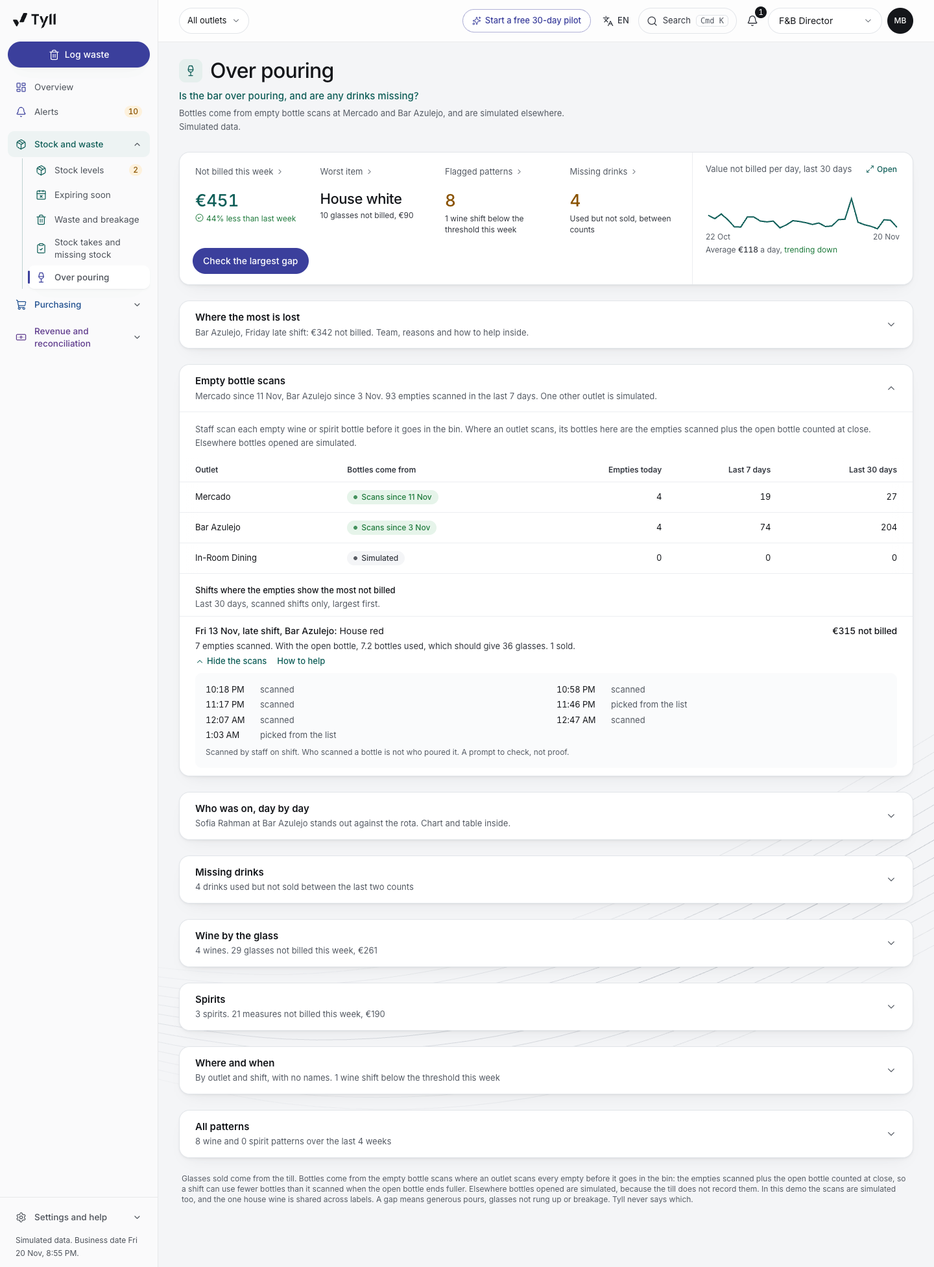
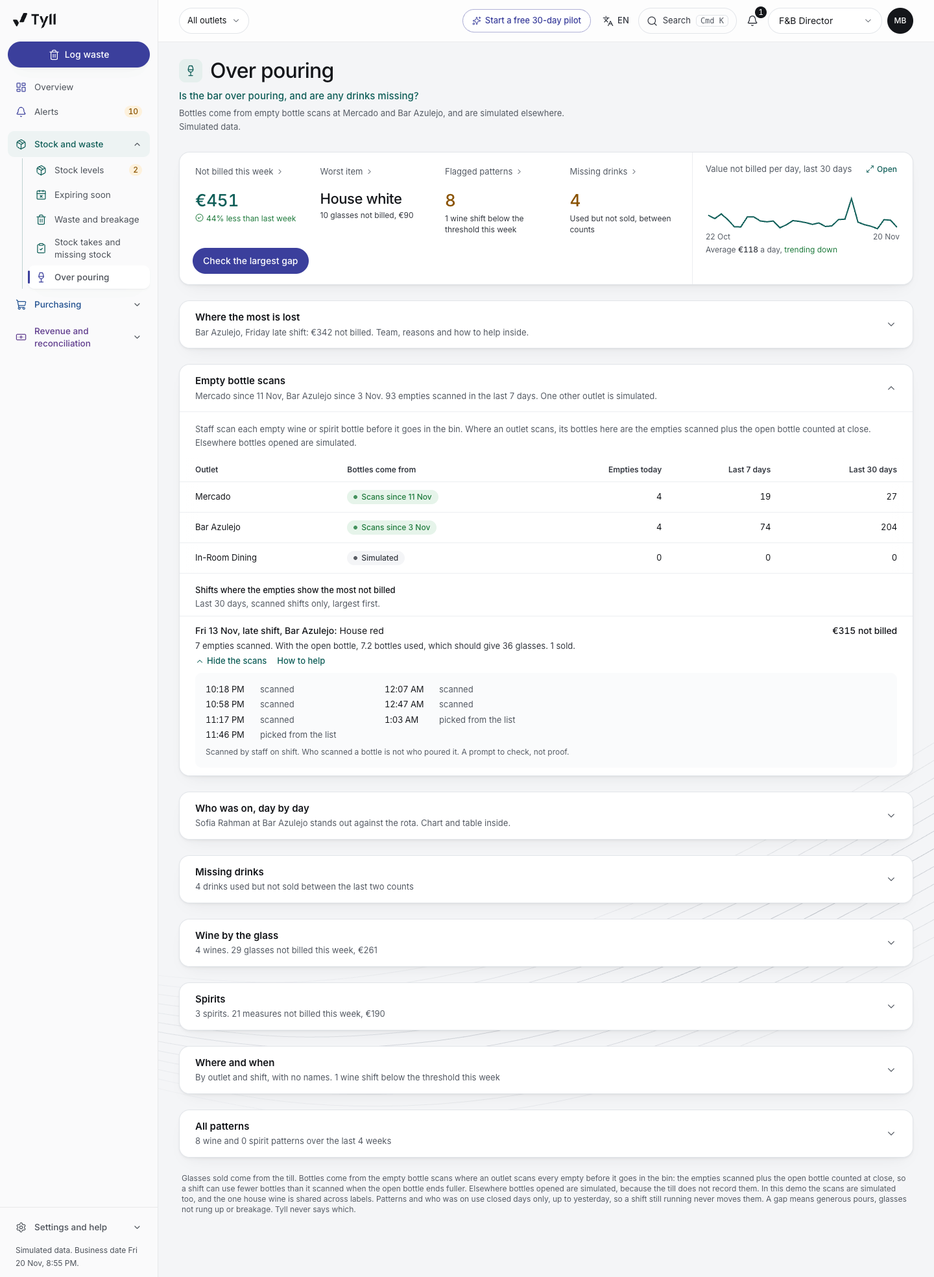
Feature 4: review fixes, patterns and who was on use closed days, open bottle from the scanning start, scan list in time order
- A scan today no longer moves the Over pouring patterns or who stands out: they use the 28 closed days up to yesterday
- The open bottle runs from the day an outlet started scanning, so empties plus the open bottle always add up
- Scan list fills top to bottom; the outlet select gets its own row on phones; stale comment rewritten
- Tests for each, footer sentence translated, CLAUDE.md and OVERNIGHT_LOG.md updated

diff --git a/src/lib/__tests__/empties.test.ts b/src/lib/__tests__/empties.test.ts
@@ -83,6 +83,21 @@ describe("bottles from scans", () => {
     }
   });
 
+  it("adds up even when an outlet's first scan falls after the day it started scanning", () => {
+    const log = pourLog(getDataset().orders);
+    const start = addDays(DEMO_TODAY, E.SCANNING.find((x) => x.outletId === "lis-lobby")!.fromDay);
+    // No empty at Bar Azulejo on its first two days: it counts from the third, with the open bottle as it stood then.
+    const scans = S.seededScans().filter((s) => !(s.outletId === "lis-lobby" && s.date <= addDays(start, 1)));
+    expect(E.scanningFrom(scans).get("lis-lobby")).toBe(addDays(start, 2));
+    const covered = E.withScans(log, scans).filter((e) => e.scanned !== undefined && e.outletId === "lis-lobby");
+    expect(covered.length).toBeGreaterThan(50);
+    const byKey = new Map(log.map((e) => [`${e.date}|${e.outletId}|${e.shift}|${e.skuId}`, e]));
+    for (const e of covered) {
+      const bottleMl = POUR_SKUS.find((s) => s.id === e.skuId)!.bottleMl;
+      expect(e.scanned! + e.part!).toBeCloseTo(byKey.get(`${e.date}|${e.outletId}|${e.shift}|${e.skuId}`)!.ml / bottleMl, 9);
+    }
+  });
+
   it("keeps the simulated history's figures: the same flags and the same money as before scans existed", () => {
     const log = pourLog(getDataset().orders);
     const before = figures(log);
@@ -153,6 +168,19 @@ describe("the simulated scan history and the story", () => {
       expect(top.skuId).toBe("red");
       expect(top.shift).toBe("late");
       expect(top.figures.gapValue).toBeGreaterThan(250);
+      // Each outlet's seeded scans start on the day it started scanning, and empties plus the open bottle add up to what was poured.
+      const D = await import("../data/generate");
+      const PL = await import("../domain/pour");
+      const EE = await import("../domain/empties");
+      const SS = await import("../server/empties");
+      const U2 = await import("../util");
+      const seeded = SS.seededScans();
+      for (const x of EE.SCANNING) expect(seeded.filter((s) => s.outletId === x.outletId).map((s) => s.date).sort()[0], `${x.outletId} ${process.env.TYLL_DEMO_DATE}`).toBe(U2.addDays(U2.DEMO_TODAY, x.fromDay));
+      const log = PL.pourLog(D.getDataset().orders);
+      const ml = new Map(log.map((e) => [`${e.date}|${e.outletId}|${e.shift}|${e.skuId}`, e.ml]));
+      for (const e of EE.withScans(log, seeded).filter((x) => x.scanned !== undefined)) {
+        expect(e.scanned! + e.part!).toBeCloseTo(ml.get(`${e.date}|${e.outletId}|${e.shift}|${e.skuId}`)! / PL.POUR_SKUS.find((s) => s.id === e.skuId)!.bottleMl, 9);
+      }
       // Only shifts below the threshold with real money are listed; the rest are noise.
       for (const s of r.pour.empties.shifts) expect(s.figures.flagged && s.figures.gapValue >= P.SCANNED_SHIFT_MIN).toBe(true);
     }
@@ -272,6 +300,25 @@ describe("a new scan on Over pouring", () => {
     expect(E.scanningFrom([scan({ outletId: "lis-ird", date: addDays(DEMO_TODAY, -3) })]).has("lis-ird")).toBe(false);
     const log = [entry({ outletId: "lis-ird", date: addDays(DEMO_TODAY, -1), sold: 4, ml: 3000 })];
     expect(E.withScans(log, [scan({ outletId: "lis-ird", date: addDays(DEMO_TODAY, -3) })])).toEqual(log);
+    resetDemo(U("u-gm"), "stock");
+  });
+
+  it("leaves who stands out and every pattern unchanged: they are built from closed days, so a tap today never moves them", () => {
+    resetDemo(U("u-gm"), "stock");
+    const before = pour();
+    ok(S.logEmpty(U("u-fnb"), { outletId: "lis-lobby", skuId: "red" }));
+    ok(S.logEmpty(U("u-fnb"), { outletId: "lis-lobby", skuId: "red" }));
+    const after = pour();
+    // The tap shows today, where it belongs.
+    expect(after.wine.totals.today.scanned).toBe(before.wine.totals.today.scanned + 2);
+    // Who was on, day by day, and who stands out against the rota.
+    expect(after.staff).toEqual(before.staff);
+    const standing = (p: typeof before) => (p.staff ?? []).flatMap((v) => v.people.filter((x) => x.z >= 3).map((x) => `${v.outletId}:${x.staffId}`));
+    expect(standing(after)).toEqual(standing(before));
+    for (const v of after.staff ?? []) expect(v.days.every((d) => d.date < DEMO_TODAY)).toBe(true);
+    // The patterns, which also feed Alerts and the Overview.
+    expect(after.wine.flags).toEqual(before.wine.flags);
+    expect(after.spirits.flags).toEqual(before.spirits.flags);
     resetDemo(U("u-gm"), "stock");
   });
 

diff --git a/src/lib/server/pour.ts b/src/lib/server/pour.ts
@@ -14,6 +14,13 @@ export type PourPeriod = "today" | "week" | "month";
 // "month" is the last 30 days; "lastMonth" the 30 days before, for the pace comparison.
 const LAST_MONTH = addDays(DEMO_TODAY, -59);
 const FROM: Record<PourPeriod, string> = { today: DEMO_TODAY, week: addDays(DEMO_TODAY, -6), month: addDays(DEMO_TODAY, -29) };
+/**
+ * The patterns and "who was on" look at the last four weeks of closed days, today left out: today's shifts are still
+ * running and their open bottles are not counted yet, so a part day never moves a pattern or who stands out, and an
+ * empty scanned today shows in today's figures only.
+ */
+const CLOSED_DAYS = Array.from({ length: 28 }, (_, i) => addDays(DEMO_TODAY, i - 28));
+const CLOSED_FROM = CLOSED_DAYS[0];
 
 export interface PourFamilyOut {
   family: PourFamily;
@@ -71,9 +78,9 @@ export interface PourOut {
   spirits: PourFamilyOut;
 }
 
-/** Who was rostered on one weekday and shift at one outlet over the last four weeks. Being on shift is not proof of who poured. */
+/** Who was rostered on one weekday and shift at one outlet over the last four weeks of closed days. Being on shift is not proof of who poured. */
 function teamOn(outletId: string, weekday: number, shift: Shift, mayName: boolean): PourTeam {
-  const dates = Array.from({ length: 28 }, (_, i) => addDays(DEMO_TODAY, i - 27)).filter((d) => weekdayOf(d) === weekday);
+  const dates = CLOSED_DAYS.filter((d) => weekdayOf(d) === weekday);
   const byDate = dates.map((d) => rostered(outletId, d, shift));
   const counts = new Map<string, number>();
   for (const ids of byDate) for (const id of ids) counts.set(id, (counts.get(id) ?? 0) + 1);
@@ -84,11 +91,11 @@ function teamOn(outletId: string, weekday: number, shift: Shift, mayName: boolea
 }
 
 /**
- * Who was on each day at one outlet, set against what was not billed that day, over the last four weeks.
+ * Who was on each day at one outlet, set against what was not billed that day, over the last four weeks of closed days.
  * Compares each person's days with the days they were off, so someone who simply works a lot does not stand out for that alone.
  */
 function staffView(outletId: string, log: readonly PourEntry[]): PourStaffView {
-  const dates = Array.from({ length: 28 }, (_, i) => addDays(DEMO_TODAY, i - 27));
+  const dates = CLOSED_DAYS;
   const here = log.filter((e) => e.outletId === outletId);
   // One unit per shift that sold drinks: what it did not bill, and who was rostered.
   const shifts = dates.flatMap((date) => SHIFTS.map((sh) => {
@@ -161,9 +168,9 @@ export function pourFor(user: User, propertyId: string, asked?: readonly string[
     const skus = POUR_SKUS.filter((s) => s.family === family);
     const ids = new Set(skus.map((s) => s.id));
     const entries = log.filter((e) => ids.has(e.skuId));
-    // Where and when it keeps happening: each weekday and shift at each outlet, over the last four weeks.
+    // Where and when it keeps happening: each weekday and shift at each outlet, over the last four weeks of closed days.
     const flags: PourFlag[] = [];
-    const recent = entries.filter((e) => e.date >= addDays(DEMO_TODAY, -27));
+    const recent = entries.filter((e) => e.date >= CLOSED_FROM && e.date < DEMO_TODAY);
     const keys = new Set(recent.map((e) => `${e.outletId}|${weekdayOf(e.date)}|${e.shift}`));
     for (const k of keys) {
       const [outletId, day, shift] = k.split("|") as [string, string, Shift];

diff --git a/src/app/drinks/page.tsx b/src/app/drinks/page.tsx
@@ -26,7 +26,7 @@ export default function DrinksPage() {
   const missing = useMissingDrinks();
   const params = useSearchParams();
   const askedForMissing = params.get("tab") === "missing";
-  // A link can open the empty bottle scans, such as the one under the scan flow on Waste and breakage.
+  // ?open=empties opens the empty bottle scans with the largest shift's scans shown (used by the screenshots and a salesperson's demo link).
   const askedForEmpties = params.get("open") === "empties";
   useEffect(() => { if (askedForMissing) document.getElementById("missing")?.scrollIntoView({ block: "center" }); }, [askedForMissing]);
   useEffect(() => { if (askedForEmpties) document.getElementById("sec-empties")?.scrollIntoView({ block: "start" }); }, [askedForEmpties]);
@@ -119,7 +119,7 @@ export default function DrinksPage() {
       <div id="sec-spirits" className="scroll-mt-24"><Section id="drinks.spirits" forceOpen={opened === "sec-spirits"} title="Spirits" summary={line("spirits", "measures")} flush><PourByItem family="spirits" /></Section></div>
       <Section id="drinks.where" title="Where and when" summary={`By outlet and shift, with no names. ${below} wine ${below === 1 ? "shift" : "shifts"} below the threshold this week`} flush><PourWhere /></Section>
       <div id="sec-patterns" className="scroll-mt-24"><Section id="drinks.patterns" forceOpen={opened === "sec-patterns"} title="All patterns" summary={`${pour?.wine.flags.length ?? 0} wine and ${pour?.spirits.flags.length ?? 0} spirit patterns over the last 4 weeks`} flush><PourPatterns /></Section></div>
-      <p className="px-1 text-xs text-steel">Glasses sold come from the till. Bottles come from the empty bottle scans where an outlet scans every empty before it goes in the bin: the empties scanned plus the open bottle counted at close, so a shift can use fewer bottles than it scanned when the open bottle ends fuller. Elsewhere bottles opened are simulated, because the till does not record them. In this demo the scans are simulated too, and the one house wine is shared across labels. A gap means generous pours, glasses not rung up or breakage. Tyll never says which.</p>
+      <p className="px-1 text-xs text-steel">Glasses sold come from the till. Bottles come from the empty bottle scans where an outlet scans every empty before it goes in the bin: the empties scanned plus the open bottle counted at close, so a shift can use fewer bottles than it scanned when the open bottle ends fuller. Elsewhere bottles opened are simulated, because the till does not record them. In this demo the scans are simulated too, and the one house wine is shared across labels. Patterns and who was on use closed days only, up to yesterday, so a shift still running never moves them. A gap means generous pours, glasses not rung up or breakage. Tyll never says which.</p>
     </div>
   );
 }

diff --git a/src/lib/domain/empties.ts b/src/lib/domain/empties.ts
@@ -131,16 +131,26 @@ export function scanningFrom(scans: readonly EmptyScan[], today = DEMO_TODAY): M
 
 const keyOf = (x: { date: string; outletId: string; shift: Shift; skuId: string }) => `${x.date}|${x.outletId}|${x.shift}|${x.skuId}`;
 
+/** The day an outlet in SCANNING started scanning, where the simulated history and the open bottle both start. */
+const startedOn = (outletId: string, today: string) => {
+  const x = SCANNING.find((s) => s.outletId === outletId);
+  return x ? addDays(today, x.fromDay) : undefined;
+};
+
 /**
  * The open bottle of each label, counted to a tenth at close: how much more (+) or less (−) of it was poured than at the
- * start of the shift, in bottles. Simulated from the same pouring as the rest of Over pouring, from the day the outlet started scanning.
+ * start of the shift, in bottles. Simulated from the same pouring as the rest of Over pouring. It runs from the day the
+ * outlet started scanning, as the simulated scans do, even when its scans count from a later day (no empty on the first
+ * days), so empties plus the open bottle always add up to what was poured.
  */
 export function openBottleChange(log: readonly PourEntry[], from: ReadonlyMap<string, string>, today = DEMO_TODAY): Map<string, number> {
   const out = new Map<string, number>();
   const runs = new Map<string, PourEntry[]>();
   for (const e of log) {
     const f = from.get(e.outletId);
-    if (!f || e.date < f || e.date > today) continue;
+    if (!f) continue;
+    const start = [f, startedOn(e.outletId, today)].filter((d): d is string => !!d).sort()[0];
+    if (e.date < start || e.date > today) continue;
     const k = `${e.outletId}|${e.skuId}`;
     const run = runs.get(k);
     if (run) run.push(e);
@@ -152,7 +162,7 @@ export function openBottleChange(log: readonly PourEntry[], from: ReadonlyMap<st
     let open = openAtStart(outletId, skuId);
     for (const e of entries.sort((a, b) => a.date.localeCompare(b.date) || ORDER[a.shift] - ORDER[b.shift])) {
       const after = open + e.ml / sku.bottleMl;
-      out.set(keyOf(e), (after % 1) - (open % 1));
+      if (e.date >= from.get(outletId)!) out.set(keyOf(e), (after % 1) - (open % 1));
       open = after;
     }
   }

diff --git a/src/components/drinks/empty-scans.tsx b/src/components/drinks/empty-scans.tsx
@@ -3,7 +3,7 @@
 // Then the scanned shifts where the empties show the most not billed. Who scanned is never shown, not even by job: staff on
 // shift scan, and binning a bottle is not pouring it.
 import { ChevronDown } from "lucide-react";
-import { useState, type ReactNode } from "react";
+import { useState, type CSSProperties, type ReactNode } from "react";
 import { Badge, Note, OutletDot, TableWrap, Td, Th, cn, rowClass, textLink } from "@/components/ui";
 import { useAlertFeed } from "@/lib/alert-feed";
 import { outletById } from "@/lib/data/catalog";
@@ -35,11 +35,11 @@ function Source({ o }: { o: PourEmpties["outlets"][number] }) {
   return o.from ? <Badge tone="pos">Scans since {fmtDate(o.from)}</Badge> : <Badge>Simulated</Badge>;
 }
 
-/** The scans behind one shift, by time. */
+/** The scans behind one shift, by time: down the first column, then down the second, so the times read in order. */
 function ScanList({ s }: { s: ScannedShift }) {
   return (
     <div className="rounded-[var(--radius-control)] bg-cloud p-4 text-[13px]">
-      <ul className="grid gap-x-8 gap-y-1 sm:grid-cols-2">
+      <ul className="grid max-w-[520px] gap-x-8 gap-y-1 sm:grid-flow-col sm:grid-cols-2 sm:grid-rows-[repeat(var(--rows),auto)]" style={{ "--rows": Math.max(1, Math.ceil(s.scans.length / 2)) } as CSSProperties}>
         {s.scans.map((x, i) => <li key={i} className="flex gap-3"><span className="num w-[72px] shrink-0 text-ink">{fmtTime(x.min)}</span><span className="text-steel">{x.method === "scan" ? "scanned" : "picked from the list"}</span></li>)}
       </ul>
       <p className="mt-2 text-xs text-steel">Scanned by staff on shift. Who scanned a bottle is not who poured it. A prompt to check, not proof.</p>

diff --git a/src/components/stock/empty-bottles.tsx b/src/components/stock/empty-bottles.tsx
@@ -80,9 +80,9 @@ export function EmptyBottleFlow({ wide }: { wide?: boolean }) {
           {canCamera && <Button type="button" onClick={() => setCamera(true)} aria-label="Scan with the camera"><Camera size={16} aria-hidden /></Button>}
         </form>
         {outlets.length > 1 && (
-          <label className="flex items-center gap-2 text-[13px] text-steel">
+          <label className="order-first flex basis-full items-center gap-2 text-[13px] text-steel sm:order-none sm:basis-auto">
             <span className="sr-only sm:not-sr-only">Outlet</span>
-            <select value={outletId} onChange={(e) => setPicked(e.target.value)} aria-label="Outlet" className="h-10 max-w-[180px] rounded-full border border-line bg-paper px-3 text-[13px] text-ink">
+            <select value={outletId} onChange={(e) => setPicked(e.target.value)} aria-label="Outlet" className="h-10 w-full rounded-full border border-line bg-paper px-3 text-[13px] text-ink sm:w-auto sm:max-w-[180px]">
               {outlets.map((o) => <option key={o} value={o}>{outletById[o].name}</option>)}
             </select>
           </label>

diff --git a/OVERNIGHT_LOG.md b/OVERNIGHT_LOG.md
@@ -90,7 +90,7 @@ Branch `feature/overnight-checks`, started from `feature/visit-tracking` (1fdbe6
 | 1 | Room charge check | DONE | `/money?tab=rooms` (F&B Director u-fnb, also gm, fc, owner, restaurant manager for own outlets; worked example opens with `&open=example`). Story: last night's Mercado dinner for 3, signed to room 1412, posted to room 1421; 1412 checked out this morning. Case `EX-RC-MER-<yesterday MMDD>-299`. Screenshots `overnight-screenshots/01-room-charges-*.png`. Review fixes done in two rounds: the check and the flags reconcile in the public demo, and room charges no longer take over the demo's money story (Overview money lost EUR 10,642 on 20 Nov, see "Second review fixes" below). |
 | 2 | Bought against sold, per item | DONE | `/stock?tab=bought` (tab "Bought against used" in Stock takes and missing stock; u-fnb, also u-buy, u-gm, u-fc, owner; not chef, restaurant manager or staff). Item drawer `&item=coke`. Story (after review): a standing order adds three cases (72 cans) of Coca-Cola to every drinks delivery; the weekly counts find them in the main store. On 20 Nov: 688 cans more bought than used, 448 of them beyond today's delivery, EUR 605 at risk (EUR 182 to 605 over the week). Demo outcome "Counted: the stock is on the shelf". Flag `EX-BU-LIS-COKE-<MMDD>`. Second review: a purchasing check no longer closes the flag (it waits for a manager to confirm), the flags page and the Money Back List count the same flags per day. Screenshots `overnight-screenshots/02-bought-vs-sold-*.png`. See "Feature 2", "Review fixes (feature 2)" and "Second review fixes (feature 2)" below. |
 | 3 | Drinks per guest by waiter | DONE | `/money?tab=waiters` (Revenue section, in the Revenue item's `also`; linked from `/money` as "Drinks per guest by waiter"). Names by the Over pouring rule: u-fnb and u-fc see names (only coaching roles record coaching); chef, purchasing and staff are sent home (API 403). Drawer: `&waiter=MER-S1`. Story (after review): Rahul Okafor (MER-S1) on Mercado evening shifts, 0.50 drinks per guest against 0.73 for colleagues on the same evenings, 64 of 174 tables with food and no drink against about 15 expected, about EUR 404 in drinks not sold (an estimate), the only waiter to coach on every business date probed (16 to 23 Nov, 30 days, EUR 353 to 404). Screenshots `overnight-screenshots/03-drinks-per-guest-*.png`. See "Feature 3" and "Review fixes (feature 3)" below. One decision for the owner: names show straight away here, not behind "Show who was on". |
-| 4 | Empty bottle scan | DONE | Log: `/waste` (card "Empty wine and spirit bottles" under Log waste; u-fnb, also gm, owner, restaurant manager for own outlets) and the staff app `/staff?do=bottle` (tile "Empty bottle", u-emp, two taps: tile, bottle). Results: `/drinks?open=empties` (Over pouring, Section "Empty bottle scans", opens with the story's scans shown; u-fnb, gm, fc, owner, restaurant manager). Not shown to chef, purchasing, finance (no permission; API 403). Story: Bar Azulejo has scanned every empty since 17 days ago, Mercado since 9 days ago; last Friday's late shift at Bar Azulejo: 7 empties of house red scanned, 1 glass sold, about EUR 315 not billed (the existing house red worked example, now seen in the scans). Review fixes: empties can be logged only at the outlets that scan (Mercado, Bar Azulejo; In-Room Dining answers 409), a stray scan never switches an outlet, the toast says it counts only when the server says so, scans show time and method only (no job), every qualifying shift is listed. Screenshots `overnight-screenshots/04-empty-bottles-*.png`. See "Feature 4" and "Review fixes (feature 4)" below. |
+| 4 | Empty bottle scan | DONE | Log: `/waste` (card "Empty wine and spirit bottles" under Log waste; u-fnb, also gm, owner, restaurant manager for own outlets) and the staff app `/staff?do=bottle` (tile "Empty bottle", u-emp, two taps: tile, bottle). Results: `/drinks?open=empties` (Over pouring, Section "Empty bottle scans", opens with the story's scans shown; u-fnb, gm, fc, owner, restaurant manager). Not shown to chef, purchasing, finance (no permission; API 403). Story: Bar Azulejo has scanned every empty since 17 days ago, Mercado since 9 days ago; last Friday's late shift at Bar Azulejo: 7 empties of house red scanned, 1 glass sold, about EUR 315 not billed (the existing house red worked example, now seen in the scans). Review fixes: empties can be logged only at the outlets that scan (Mercado, Bar Azulejo; In-Room Dining answers 409), a stray scan never switches an outlet, the toast says it counts only when the server says so, scans show time and method only (no job), every qualifying shift is listed. Second review: patterns and "Who was on" use closed days only, so a tap today moves today's figures and never the story (Sofia Rahman still stands out, 8 patterns), the open bottle runs from the day an outlet started scanning, the scan list reads in time order, the outlet select has its own row on phones. Screenshots `overnight-screenshots/04-empty-bottles-*.png`. See "Feature 4", "Review fixes (feature 4)" and "Review fixes, second round (feature 4)" below. |
 | 5 | Till rule flags | to do | |
 | 6 | Booked against billed covers | to do | |
 | 7 | Hotel guests against outlet charges | to do | |
@@ -312,5 +312,20 @@ All eight findings handled; checks below.
 - Translations added in German, Italian and Arabic; the obsolete strings this feature had added were removed from messages.json.
 
 **Checks (review fixes):** tsc clean; eslint 0 errors (2 known warnings); vitest 29 files, 352 passed (empties 23, was 21); build passed on the second run as expected; preview server restarted. In the running app as the F&B director: `GET /api/stock/empties` offers Mercado and Bar Azulejo only; `POST` for In-Room Dining answers 409 with the message; Over pouring shows "includes scans" under the bottles and the scans without a job. Screenshots re-taken and looked at: `04-empty-bottles-drinks-desktop.png`, `-drinks-phone.png`, `-drinks-ar.png`, `04-empty-bottles-desktop.png` (`/waste`).
+
+
+## Review fixes, second round (feature 4)
+
+- **Medium, one tap today broke the Over pouring story (fixed, finding confirmed).** Reproduced in tests on eight business dates: before the fix, one scan of house red at Bar Azulejo moved AZU-S5's z score (on 20 Nov from 3.0 to 2.9, so "Nobody stands out against the rota"), and on 20 and 21 Nov added a ninth wine pattern. Cause: the patterns, `teamOn` and `staffView` looked at the 28 days up to and including today, and today is a part day whose open bottles are not counted yet. Fix: they now use the 28 closed days up to yesterday (`CLOSED_DAYS` in `src/lib/server/pour.ts`), the same rule as "a part day never counts as a whole one". Each weekday still appears exactly four times. A scan today now shows only where it belongs: today's figures, this week's totals, today's point on the trend and the empties count. I chose this over matching live scans with seeded ones, because matching would make a tap change nothing on screen and the toast says Over pouring counts it.
+  - Effect on the existing story without any tap (checked 16 to 22 Nov and the test date): the two largest patterns keep their money on every date. Pattern counts are the same except 19 Nov, which gains one spirit pattern (8+0 to 8+1). AZU-S5 stays at 3.0 or above wherever he did before (20 Nov: 3.0 to 3.0). Two existing quirks are unchanged and not caused by this: on 22 Nov AZU-S5 is at 2.9 (2.8 before), and on 21 Nov two Mercado people reach 3.1 (3.0 before). Both depend on the simulated rota for that date. The pinned test date still shows only AZU-S5.
+  - What still moves with a tap, on purpose: today's wine figures, "Not billed this week", and the "N wine shifts below the threshold this week" line can tip by one shift. A tap is one more bottle with no glass rung up, so the honest reading is about 5 glasses not billed today. Undo puts it back, and the hourly public demo reset clears it.
+  - The footer on Over pouring now says "Patterns and who was on use closed days only, up to yesterday, so a shift still running never moves them." (German, Italian, Arabic). CLAUDE.md notes the rule.
+  - Test: two scans today at Bar Azulejo leave `pour.staff`, who stands out, and the wine and spirit patterns exactly equal, and every day in "Who was on" is before today. Live check on the running app as F&B director: before a tap, AZU-S5 at 3, 8 patterns, 8 scanned today, EUR 27 wine not billed today. After the tap: AZU-S5 at 3, 8 patterns, 9 scanned, EUR 72. After Undo, all back.
+- **Low, open bottle start against seed start (fixed).** `openBottleChange` now runs the open bottle from the day the outlet started scanning (`SCANNING.fromDay`), the same day the seeded scans start. It still counts only from `scanningFrom`'s date, so empties plus the open bottle add up to what was poured even if the first scan comes later. I kept `scanningFrom` as it is, because an existing test pins it to the first scan's date. Tests: with Bar Azulejo's first two days of scans removed, every counted shift still adds up to the 9th decimal (this failed before the fix). On each of seven business dates, each outlet's first seeded scan falls on its `fromDay` and every counted shift adds up.
+- **Low, scan list order (fixed).** On wider screens the scans now fill down the first column, then the second (`grid-flow-col`, rows = half the scans, rounded up), within 520 px, so the times read in order and the columns sit close. Checked in English and Arabic (right to left, starting from the right).
+- **Low, barcode field cut on phones (fixed).** Below `sm`, the outlet select takes its own full width row above the scan field (`order-first basis-full`), like the outlet select on Log waste. The whole placeholder shows in Arabic at 375 wide.
+- **Low, stale comment (fixed).** `src/app/drinks/page.tsx` now says `?open=empties` is used by the screenshots and a salesperson's demo link.
+
+**Checks (second round):** tsc clean. eslint 0 errors (2 known warnings). vitest 29 files, 354 passed (empties 25, was 23). Build passed on the second run as expected. Preview server restarted. Screenshots re-taken and looked at: `04-empty-bottles-drinks-desktop.png`, `-drinks-ar.png`, `-drinks-phone.png`, `-waste-phone.png`, and new `04-empty-bottles-waste-ar-phone.png` (`/waste`, Arabic, 375 wide, F&B director with two outlets).
 
 **Next:** feature 5, Till rule flags.

diff --git a/CLAUDE.md b/CLAUDE.md
@@ -43,7 +43,7 @@ Stages 1–7 are complete. Stage 7 was the final planned stage: integration, not
 - Item lists sit under hotel categories (`STOCK_GROUPS`, `groupByStock` in `lib/data/locations.ts`). Stock, Predictions and Log waste are split into Food, Beverage and Inventory (`stockAreaOf` in `lib/data/locations.ts`). Inventory is glassware, china and hotel supplies. Waste and breakage share one record system; only the views are separate. Build order still makes one draft across all three.
 - `monthPlanFor` in `lib/server/purchasing.ts` is the one plan to month end. Overview, Stock and All alerts all read it through `lib/alert-feed.tsx`, so they agree. `buildMonthOrder` turns it into one draft request.
 - Critical means an order placed today would arrive too late. Low means the order must go by tomorrow, or under half of par is left.
-- `lib/domain/pour.ts`: glasses sold are POS lines. **Bottles opened are simulated**, because the POS does not record them, and the one house wine on the menu is shared across four labels. Say so on screen. Since 20 November 2026 (overnight feature 4), staff log each empty bottle before binning it (`lib/domain/empties.ts`, `lib/server/empties.ts`, `/api/stock/empties`, permission `stock.logEmpty`): where an outlet scans, its bottles are the empties scanned plus the open bottle counted at close (`withScans`), elsewhere they stay simulated, and the page says which. Only outlets in `SCANNING` (Bar Azulejo and Mercado, with a simulated scan history) take scans, so a stray scan never switches an outlet; who scanned is never shown, not even by job (one supervisor on a shift is as good as a name). Each pattern shows the team on that shift from till logins (`teamOn` in `lib/server/pour.ts`), possible reasons and how to help (`pourReasons`, fixed rules, labelled "To check, not proven", never AI, never naming anyone). Names appear only to managers, only after "Show who was on", with "Being on shift is not proof of who poured" (set by the owner on 16 November 2026). Waste has no time of day, so it gets reasons and help by outlet and reason, not by shift. "Who was on, day by day" (`WhoWasOn`, `staffView` in `lib/server/pour.ts`) sets each outlet's daily not billed line against the rota; a person is marked "Stands out" only when the gap between their shifts and the others is 3 or more standard errors, so random rotas never point at anyone. The rota is simulated (`lib/domain/rota.ts`, every login rings bills daily in the POS data); the one planted story is the Bar Azulejo bartender (AZU-S5), whose shifts carry the heavy pours (`PERSON` in `lib/domain/pour.ts`), and a test pins that only this person stands out. The logo is the vector from tyll.ai, copied path for path in `components/brand.tsx`. There is no Early access badge.
+- `lib/domain/pour.ts`: glasses sold are POS lines. **Bottles opened are simulated**, because the POS does not record them, and the one house wine on the menu is shared across four labels. Say so on screen. Since 20 November 2026 (overnight feature 4), staff log each empty bottle before binning it (`lib/domain/empties.ts`, `lib/server/empties.ts`, `/api/stock/empties`, permission `stock.logEmpty`): where an outlet scans, its bottles are the empties scanned plus the open bottle counted at close (`withScans`), elsewhere they stay simulated, and the page says which. Only outlets in `SCANNING` (Bar Azulejo and Mercado, with a simulated scan history) take scans, so a stray scan never switches an outlet; who scanned is never shown, not even by job (one supervisor on a shift is as good as a name). Patterns, `teamOn` and `staffView` use the 28 closed days up to yesterday (`CLOSED_DAYS` in `lib/server/pour.ts`), so a scan today shows in today's figures only and never moves a pattern or who stands out. Each pattern shows the team on that shift from till logins (`teamOn` in `lib/server/pour.ts`), possible reasons and how to help (`pourReasons`, fixed rules, labelled "To check, not proven", never AI, never naming anyone). Names appear only to managers, only after "Show who was on", with "Being on shift is not proof of who poured" (set by the owner on 16 November 2026). Waste has no time of day, so it gets reasons and help by outlet and reason, not by shift. "Who was on, day by day" (`WhoWasOn`, `staffView` in `lib/server/pour.ts`) sets each outlet's daily not billed line against the rota; a person is marked "Stands out" only when the gap between their shifts and the others is 3 or more standard errors, so random rotas never point at anyone. The rota is simulated (`lib/domain/rota.ts`, every login rings bills daily in the POS data); the one planted story is the Bar Azulejo bartender (AZU-S5), whose shifts carry the heavy pours (`PERSON` in `lib/domain/pour.ts`), and a test pins that only this person stands out. The logo is the vector from tyll.ai, copied path for path in `components/brand.tsx`. There is no Early access badge.
 - Log waste (`components/shell/breakage.tsx`) covers food, drinks and inventory, and must stay two taps on its page: item, number. From anywhere it is four: open, item, reason (optional), number. The confirmation says what it cost. Count (`components/stock/count-flow.tsx`) keeps its walking order on the server (`countRoutes`) and its progress in the browser.
 
 ## Purchasing and stock control (19 November 2026)
